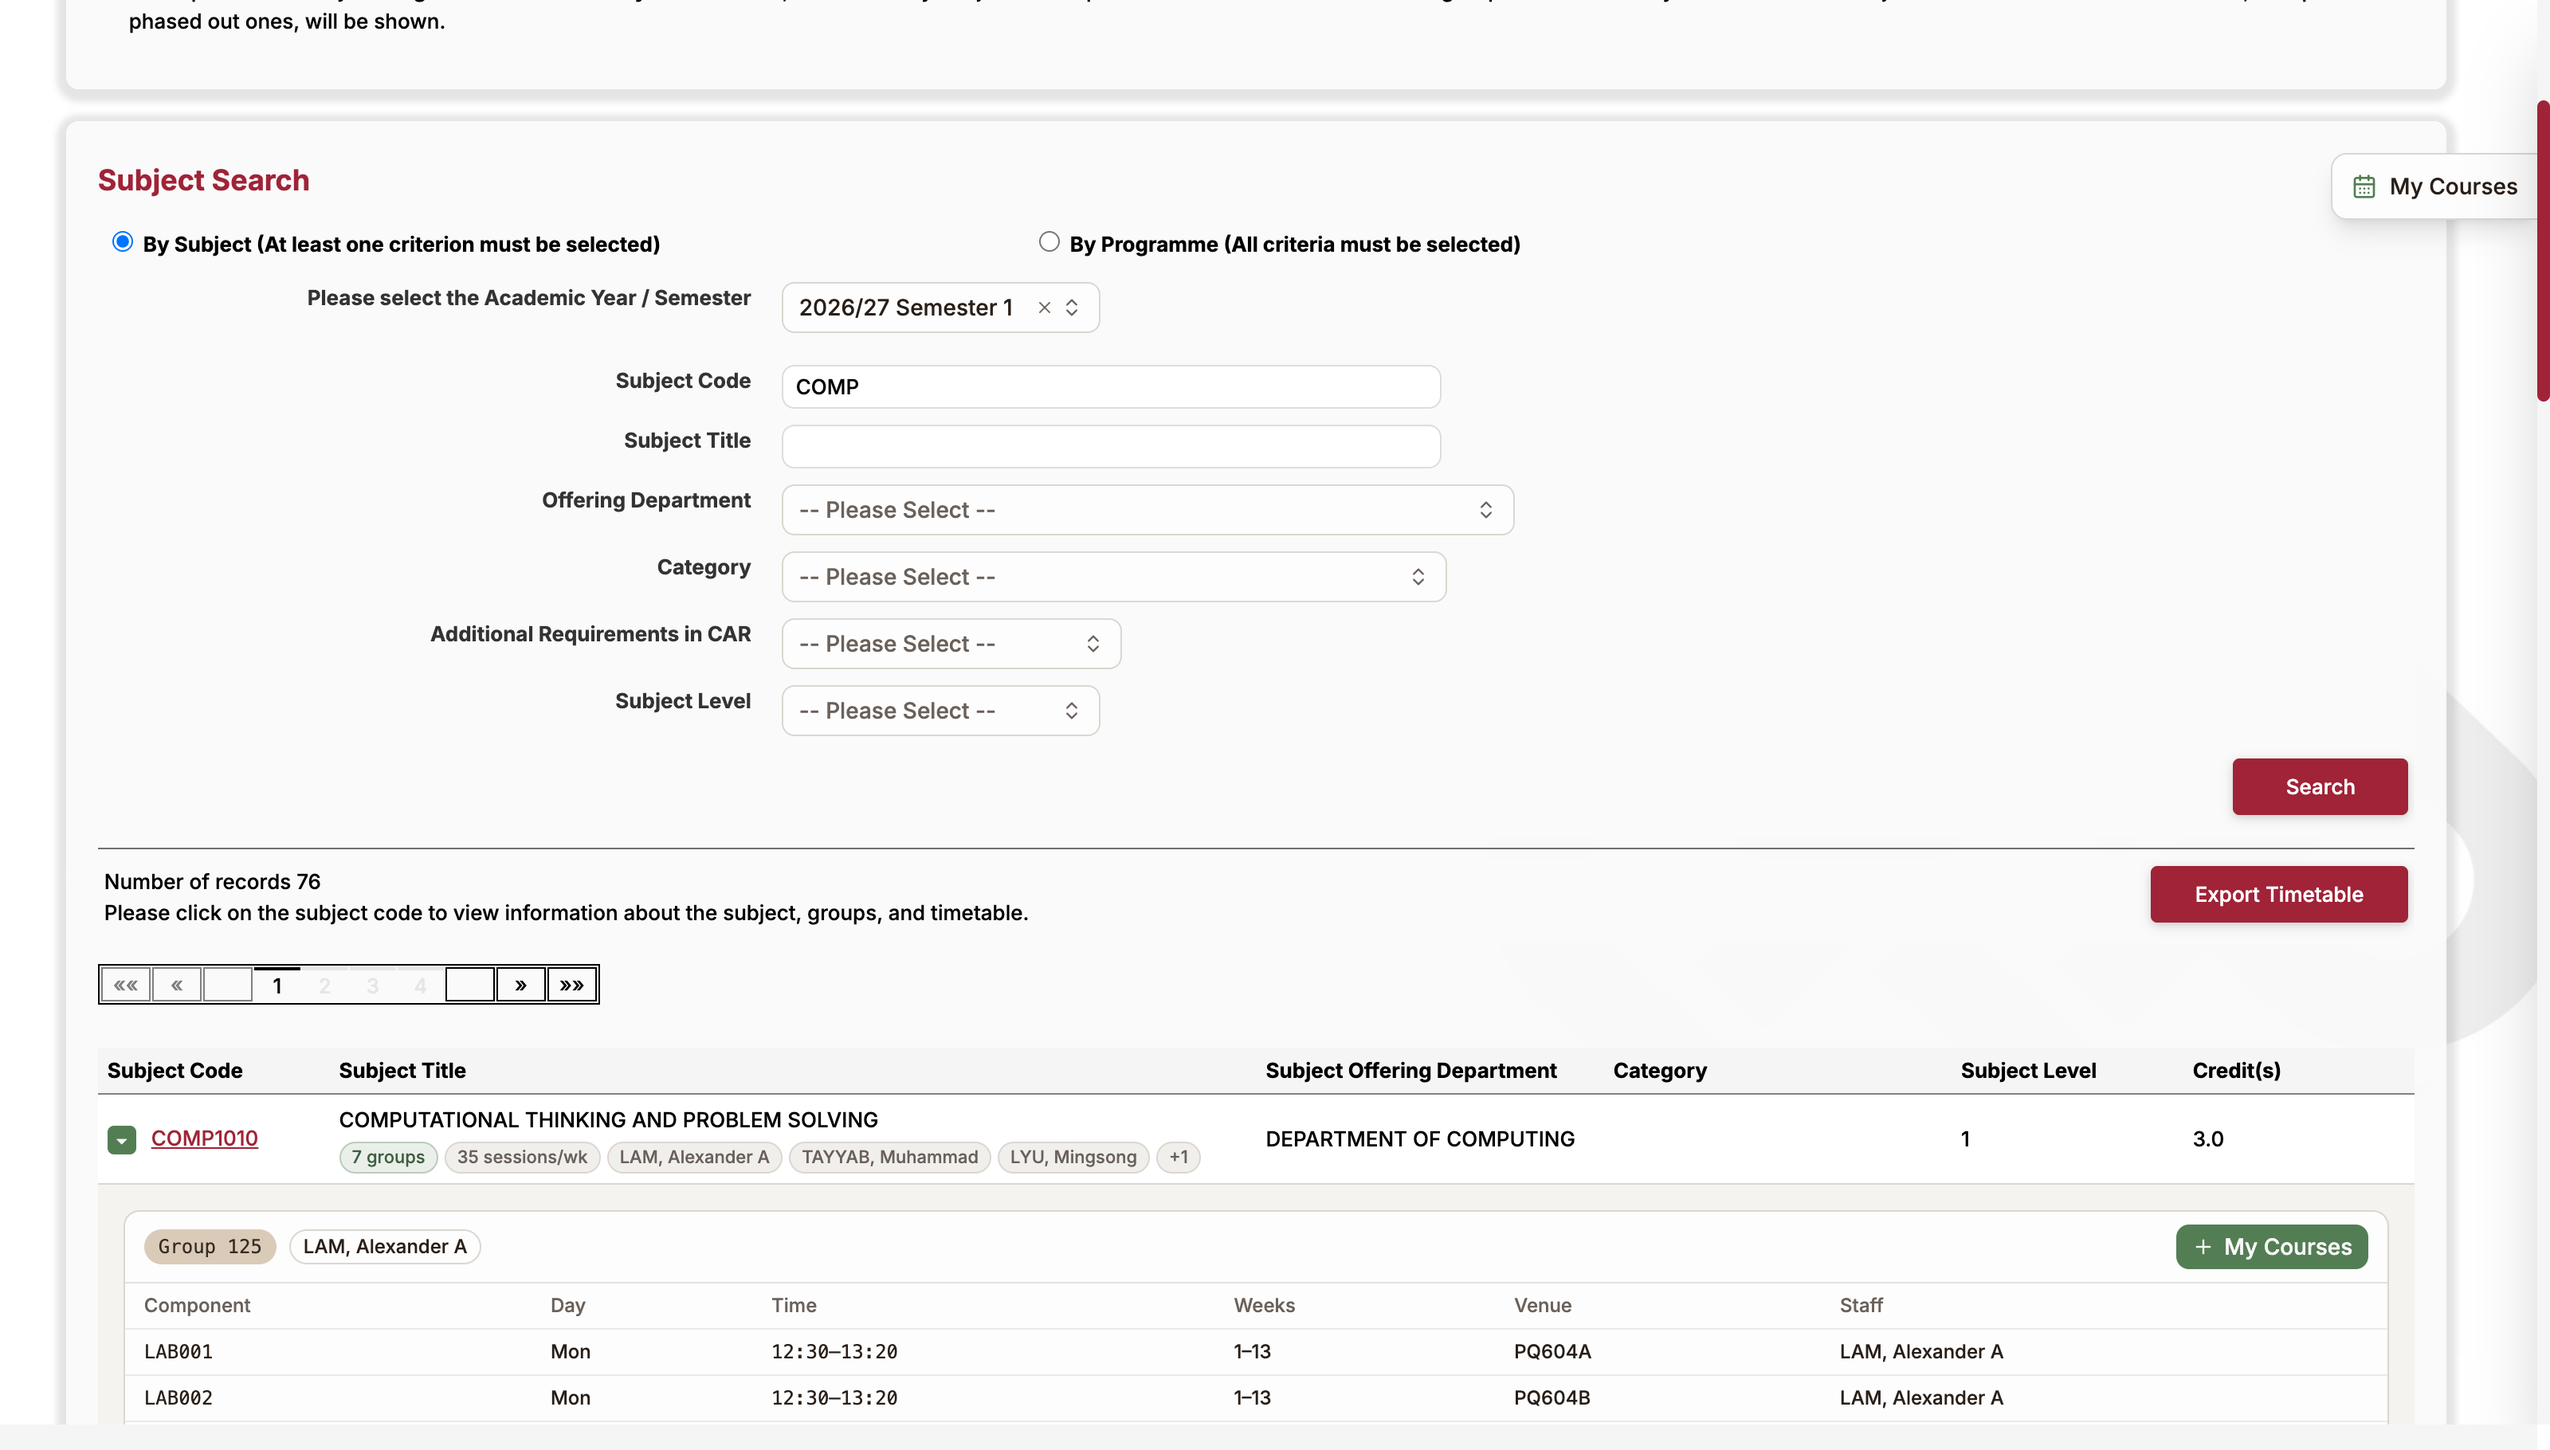
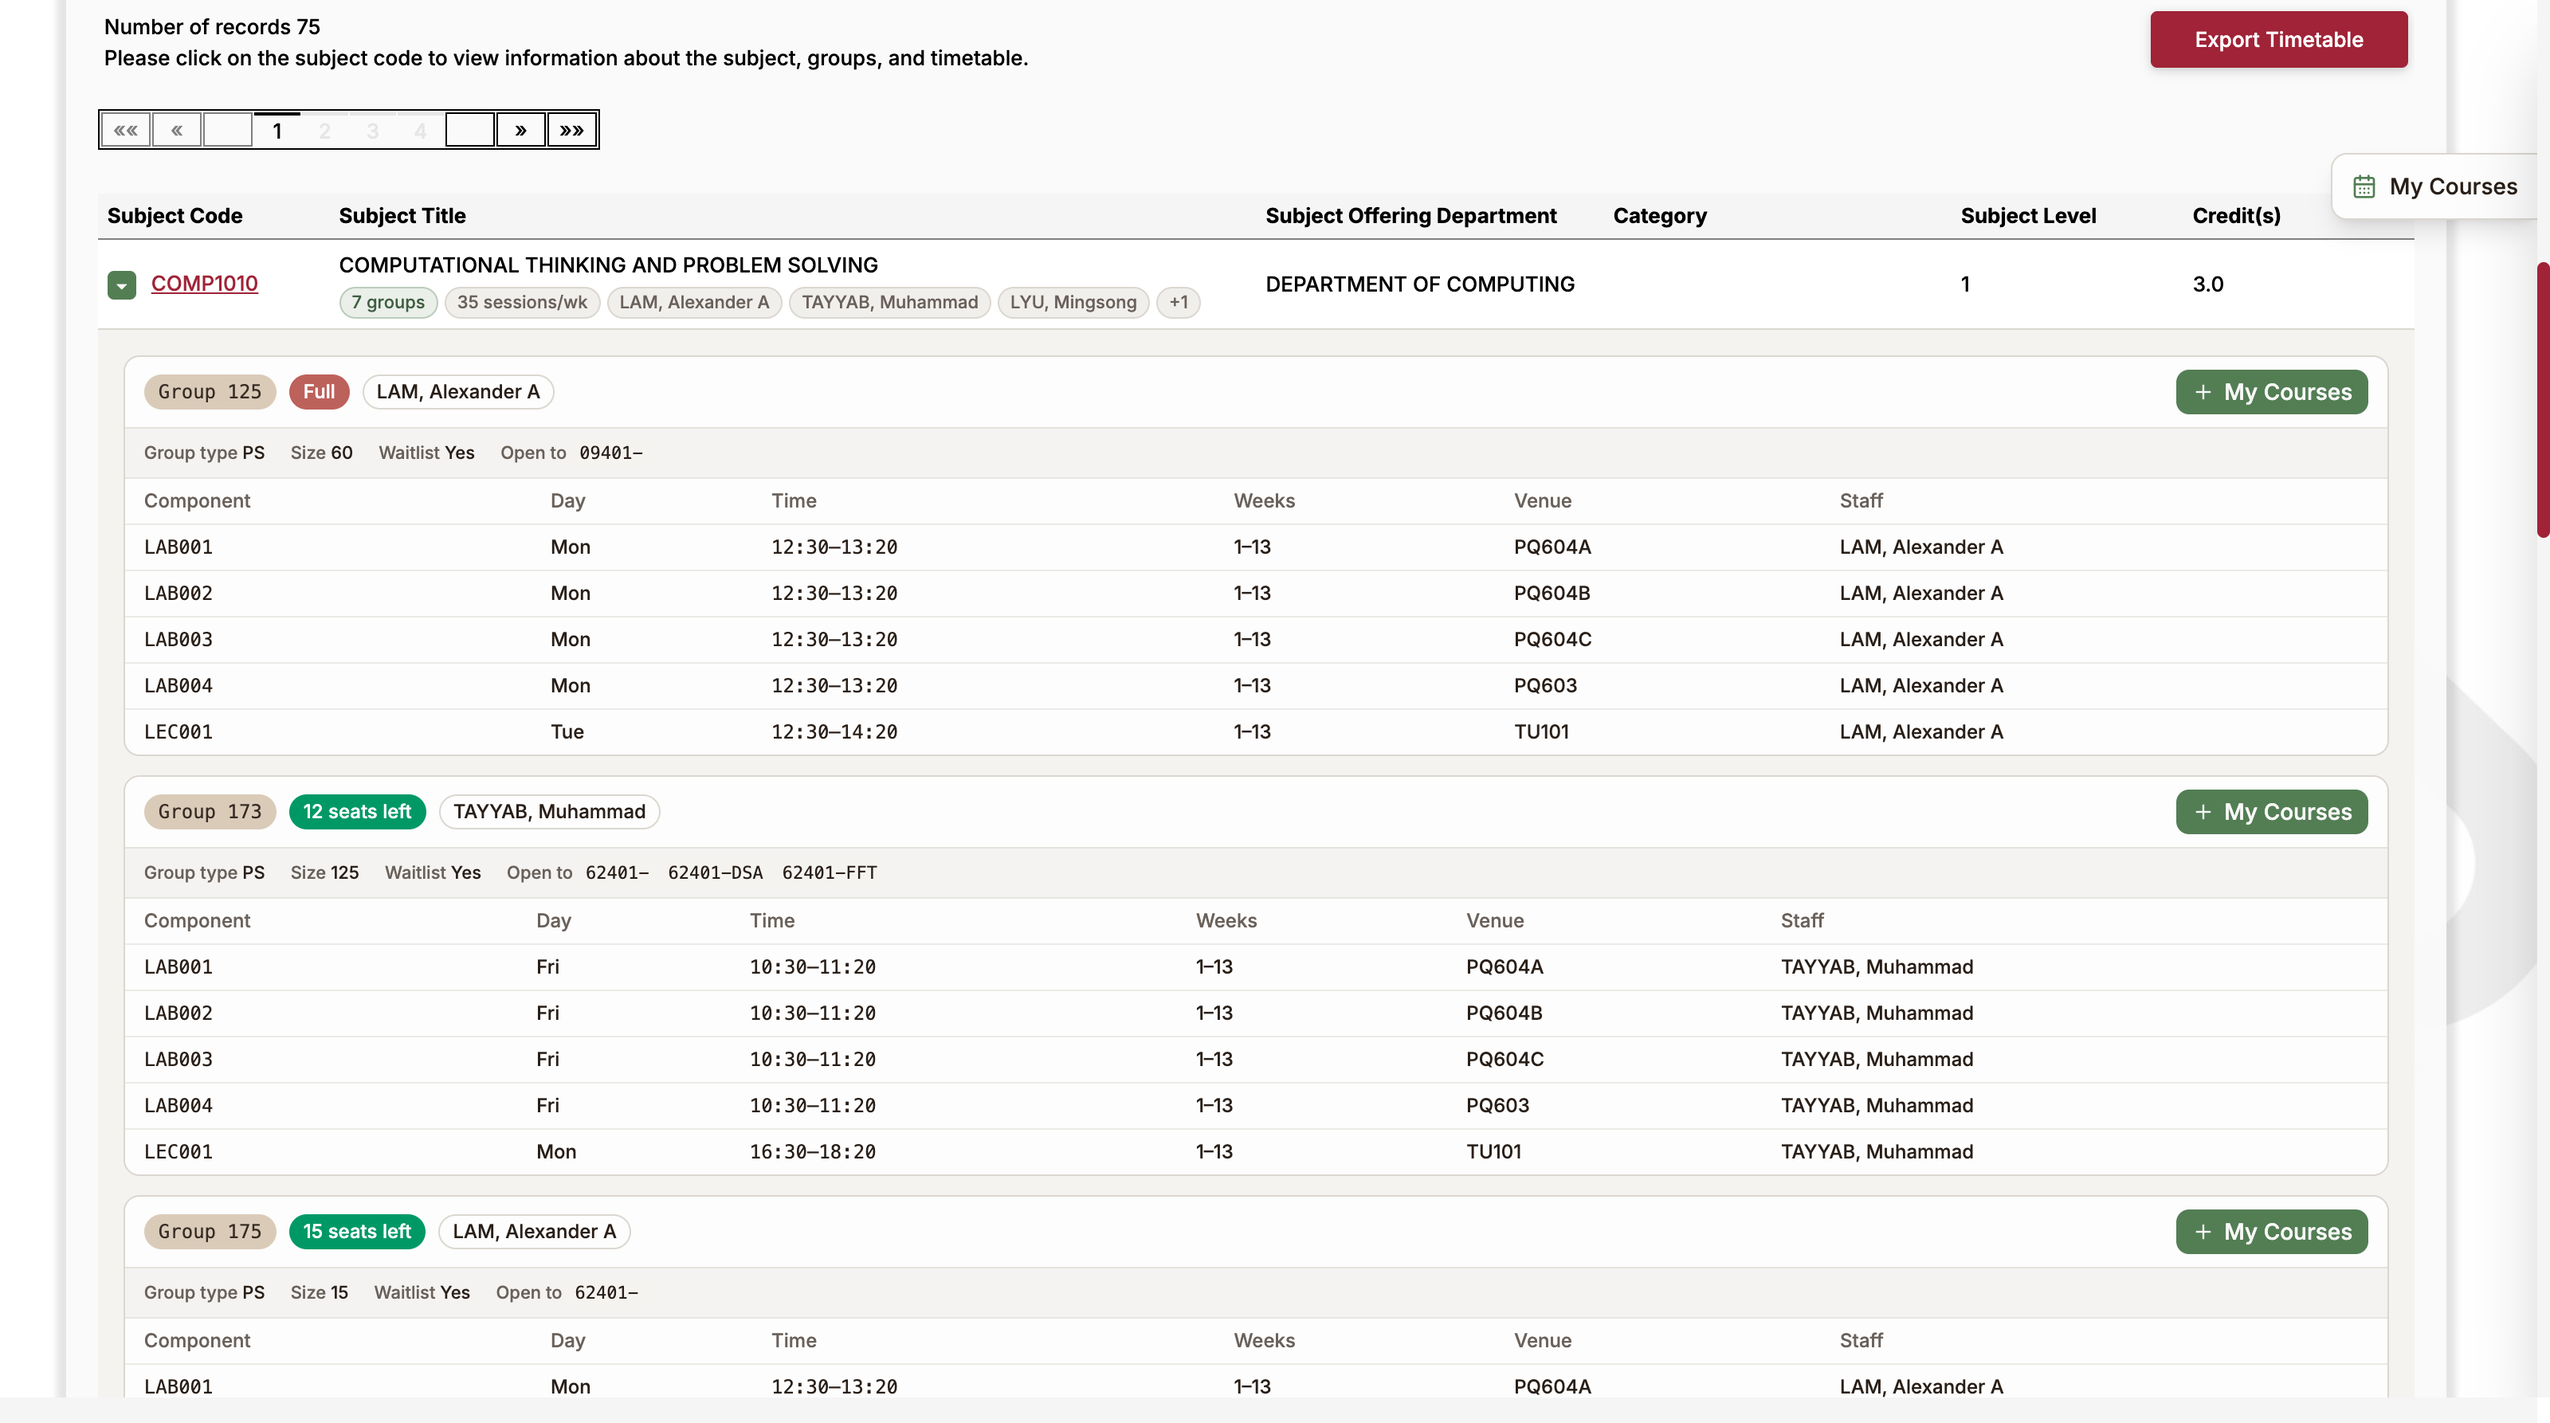
docs: describe the per-group vacancies and refresh the screenshot
Retakes subject-groups.png against the live ePublic page so it shows the seats-left badges and the eligibility strip the section now describes.

diff --git a/README.md b/README.md
@@ -39,6 +39,14 @@ and uses it to:
 - render a full per-group timetable under a ▸ toggle to the left of the subject
   code, with a button to add that group to My Courses.
 
+**Vacancies and eligibility, per group.** Expanding a row also pulls that
+subject's *Subject Group Details* — how many seats are left (or how long the
+waitlist is), the group's type and size, and the programme codes it is open to
+— and folds them into the matching group card. That table lives on
+`subject-search-details.jsf`, which has no addressable URL: it renders whichever
+subject the session last picked, so it is requested by replaying the postback
+the subject-code link submits. The open results page is left as it was.
+
 ### 3. My Courses panel
 
 A floating launcher on every `eStudent` page opens a side panel showing the
@@ -61,7 +69,8 @@ native `<select>` stays in the form underneath:
 
 **Detail without navigation** — every result row is annotated inline with its
 group count, weekly sessions and lecturers; ▾ expands the full per-group
-timetable with an add-to-My-Courses button:
+timetable, each group headed by its seats left and the programmes it is open
+to, with an add-to-My-Courses button:
 
 ![Expanded subject groups](docs/screenshots/subject-groups.png)
 
@@ -116,7 +125,8 @@ entrypoints/
   my-courses.content/         floating launcher and panel
   popup/                      credentials and feature toggles
 lib/polyu/
-  parse.ts                    result table + timetable export parsers
+  parse.ts                    result table, timetable export, group details
+  details.ts                  replays the subject-code postback for vacancies
   timetable.ts                time maths, clash detection, weekly grid layout
   harvest.ts                  scrapes registered subjects off eStudent pages
 tests/fixtures/               verbatim slices of live PolyU responses
